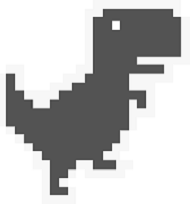
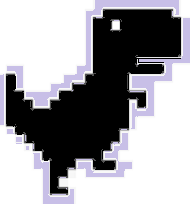
evaluacion

diff --git a/dino_runner/components/game.py b/dino_runner/components/game.py
@@ -1,6 +1,6 @@
 import pygame
 
-from dino_runner.utils.constants import BG, ICON, SCREEN_HEIGHT, SCREEN_WIDTH, TITLE, FPS, FONT_STYLE , RESET , GAMEOVER ,CLOUD, DEFAULT_TYPE
+from dino_runner.utils.constants import BG, ICON, SCREEN_HEIGHT, SCREEN_WIDTH, TITLE, FPS, FONT_STYLE , RESET , GAMEOVER ,CLOUD, DEFAULT_TYPE, ICON_1
 from dino_runner.components.dinosaurio import Dinosaur
 from dino_runner.components.obstacles.obstacle_manager import ObstacleManager
 from dino_runner.components.menu import Menu
@@ -13,10 +13,10 @@ class Game:
     def __init__(self):
         pygame.init()
         pygame.display.set_caption(TITLE)
-        pygame.display.set_icon(ICON)
         pygame.display.set_icon(CLOUD)
         pygame.display.set_icon(RESET)
         pygame.display.set_icon(GAMEOVER)
+        self.icon = ICON_1[0]
         self.screen = pygame.display.set_mode((SCREEN_WIDTH, SCREEN_HEIGHT))
         self.clock = pygame.time.Clock()
         self.playing = False
@@ -33,6 +33,7 @@ class Game:
         self.power_up_manager = PowerUpManager()
         self.stop = 0
         self.colors = 0
+        self.step = 0
         
     def execute(self):
         self.running = True
@@ -112,6 +113,13 @@ class Game:
             self.x_pos_bg = 0
         self.x_pos_bg -= self.game_speed
         
+        
+    def Icon_walk(self):
+        if self.step >= 800:
+            self.step = 0
+        self.icon = ICON_1[0] if self.step < 400 else ICON_1[1]
+        self.step += 1
+        
     #metodo para mostar el menu
     def show_menu(self):
         self.menu.reset_screen_color(self.screen)
@@ -119,13 +127,14 @@ class Game:
         half_screen_width = SCREEN_WIDTH // 2
         
         if self.death_count.count == 0:
-            self.screen.blit(ICON, (half_screen_width - 50, half_screen_height - 140))
-            self.menu.draw(self.screen, 'Press any key to start ...')
+            self.Icon_walk()
+            self.screen.blit(self.icon,(half_screen_width -90, half_screen_height-200))
+            self.menu.draw(self.screen, 'Press any key to start ...', half_screen_width +180)
         else:
             self.screen.blit(GAMEOVER, (half_screen_width -380, half_screen_height - 140,))
             self.screen.blit(RESET, (half_screen_width - 50, half_screen_height - 70,))
             self.update_highest_score()
-            self.menu.draw(self.screen, 'Game over. Press any key to restart', half_screen_width, 350, )
+            self.menu.draw(self.screen, 'Game over. Press any key to restart',half_screen_width -30, half_screen_height +50, )
             self.menu.draw(self.screen, f'Your score: {self.score.count}', half_screen_width, 370, )
             self.menu.draw(self.screen, f'Highest score: {self.highest_score.count}', half_screen_width, 390, )
             self.menu.draw(self.screen, f'Total deaths: {self.death_count.count}', half_screen_width, 410, )    
@@ -165,7 +174,7 @@ class Game:
     def  draw_power_up_time(self):
         if self.player.has_power_up: #el poder debe estar activado
             self.stop += 1
-            if self.stop <= 50: #si le queda tiempo se manda un nuevo mensaje
+            if self.stop <= 80: #si le queda tiempo se manda un nuevo mensaje
                 self.menu.draw(self.screen, f'{self.player.type.capitalize()} enabled for {self.stop} seconds',500,50 )
             else:
                 self.has_power_up = False

diff --git a/dino_runner/components/power_ups/power_up_manager.py b/dino_runner/components/power_ups/power_up_manager.py
@@ -1,29 +1,64 @@
 import pygame
 import random
 from dino_runner.components.power_ups.shield import Shield
+from dino_runner.components.power_ups.heart import Heart
+from dino_runner.components.power_ups.hammer import Hammer
+from dino_runner.components.obstacles.obstacle_manager import ObstacleManager
+
 class PowerUpManager:
+    POWER_SHIELD = 5
+    POWER_HEART = 5
+    POWER_HOMMER = 5
     def __init__(self):
+        self.obstacle = ObstacleManager()
         self.power_ups = []
         self.when_appears =  random.randint(250,300)
         self.duration = random.randint(3,5)
+        self.life = 0
     
-    def generate_power_ups(self):
-        self.when_appears += random.randint(200,300)
+    def generate_power_ups_shield(self):
         power_up = Shield()
+        self.power_ups.append(power_up)
+
+    def generate_power_ups_heart(self):
+        power_up = Heart()
+        self.power_ups.append(power_up)
+
+    def generate_power_ups_hammer(self):
+        power_up = Hammer()
         self.power_ups.append(power_up)
     
     def update (self, game):
-        if len(self.power_ups) == 0 and self.when_appears == game.score.count:
-            self.generate_power_ups()
+        if len(self.power_ups) == 0 and random.randint(0,300) < self.POWER_SHIELD:
+            self.generate_power_ups_shield()
+        elif len(self.power_ups) == 0 and random.randint(0,100) < self.POWER_HEART:
+            self.generate_power_ups_heart()
+        elif len(self.power_ups) == 0 and random.randint(0,200) < self.POWER_HOMMER:
+            self.generate_power_ups_hammer()
         
         for power_up in self.power_ups:
             power_up.update(game.game_speed, self.power_ups)
-            if game.player.dino_rect.colliderect(power_up.rect):
+            if game.player.dino_rect.colliderect(power_up.rect) and power_up.type =="shield":
                 power_up.start_time = pygame.time.get_ticks() #tiene un power activo
                 game.player.type = power_up.type
                 game.player.has_power_up = True
                 game.player.power_up = power_up.start_time + (self.duration * 1000) # hasta cuando va a durar
                 self.power_ups.remove(power_up) #va a desaparecer el obstacle de la pantalla
+                
+            if game.player.dino_rect.colliderect(power_up.rect) and power_up.type == "heart": # cuando lo toca
+                power_up.start_time = pygame.time.get_ticks() #tiene un power activo
+                game.player.type = power_up.type
+                game.player.has_power_up = True
+                game.player.power_up = power_up.start_time + (self.duration * 1000) # hasta cuando va a durar
+                self.power_ups.remove(power_up) #va a desaparecer el obstacle de la pantalla
+                
+            if game.player.dino_rect.colliderect(power_up.rect) and power_up.type == "hammer": # cuando lo toca
+                power_up.start_time = pygame.time.get_ticks() #tiene un power activo
+                game.player.type = power_up.type
+                game.player.has_power_up = True
+                game.player.power_up = power_up.start_time + (self.duration * 1000) # hasta cuando va a durar
+                self.power_ups.remove(power_up) #va a desaparecer el obstacle de la pantalla
+ 
             
     def draw (self, screen):
         for power_up in self.power_ups:

diff --git a/dino_runner/utils/constants.py b/dino_runner/utils/constants.py
@@ -8,8 +8,15 @@ SCREEN_WIDTH = 1100
 FPS = 30
 IMG_DIR = os.path.join(os.path.dirname(__file__), "..", "assets")
 
+
 # Assets Constants
 ICON = pygame.image.load(os.path.join(IMG_DIR, "DinoWallpaper.png"))
+
+ICON_1 = [
+    pygame.image.load(os.path.join(IMG_DIR, "DinoRun1icon.png")),
+    pygame.image.load(os.path.join(IMG_DIR, "DinoRun2icon.png")),
+]
+
 GAMEOVER = pygame.image.load(os.path.join(IMG_DIR,"Other/GameOver.png"))
 RESET = pygame.image.load(os.path.join(IMG_DIR,"Other/Reset.png"))
 DEAD = pygame.image.load(os.path.join(IMG_DIR,"Dino/DinoDead.png"))
@@ -17,6 +24,10 @@ DEAD = pygame.image.load(os.path.join(IMG_DIR,"Dino/DinoDead.png"))
 RUNNING = [
     pygame.image.load(os.path.join(IMG_DIR, "Dino/DinoRun1.png")),
     pygame.image.load(os.path.join(IMG_DIR, "Dino/DinoRun2.png")),
+]
+RUN_HAMMER = [
+    pygame.image.load(os.path.join(IMG_DIR, "Dino/DinoRun1Hammer.png")),
+    pygame.image.load(os.path.join(IMG_DIR, "Dino/DinoRun2Hammer1.png")),
 ]
 
 RUNNING_SHIELD = [
@@ -64,6 +75,7 @@ BIRD = [
     pygame.image.load(os.path.join(IMG_DIR, "Bird/Bird2.png")),
 ]
 
+
 CLOUD = pygame.image.load(os.path.join(IMG_DIR, 'Other/Cloud.png'))
 SHIELD = pygame.image.load(os.path.join(IMG_DIR, 'Other/shield.png'))
 HAMMER = pygame.image.load(os.path.join(IMG_DIR, 'Other/hammer.png'))
@@ -75,3 +87,6 @@ HEART = pygame.image.load(os.path.join(IMG_DIR, 'Other/SmallHeart.png'))
 DEFAULT_TYPE = "default"
 FONT_STYLE = "freesansbold.ttf"
 SHIELD_TYPE = "shield"
+HEART_TYPE = "heart"
+HAMMER_TYPE = "hammer"
+

diff --git a/dino_runner/components/dinosaurio.py b/dino_runner/components/dinosaurio.py
@@ -1,11 +1,11 @@
 import pygame
 from pygame.sprite import Sprite
-from dino_runner.utils.constants import RUNNING, JUMPING, DUCKING , DEAD , RUNNING_SHIELD , JUMPING_SHIELD ,DUCKING_SHIELD , DEFAULT_TYPE, SHIELD_TYPE
+from dino_runner.utils.constants import RUNNING, JUMPING, DUCKING , DEAD , RUNNING_SHIELD , JUMPING_SHIELD ,DUCKING_SHIELD , DEFAULT_TYPE, SHIELD_TYPE , RUN_HAMMER, HAMMER_TYPE,JUMPING_HAMMER, DUCKING_HAMMER,HEART_TYPE
 
 #PARA CORRER CON O SIN PODER 
-RUN_IMG = {DEFAULT_TYPE:RUNNING, SHIELD_TYPE:RUNNING_SHIELD}
-JUMO_IMG ={DEFAULT_TYPE: JUMPING , SHIELD_TYPE: JUMPING_SHIELD}
-DUCK_IMG = {DEFAULT_TYPE: DUCKING , SHIELD_TYPE: DUCKING_SHIELD}
+RUN_IMG = {DEFAULT_TYPE:RUNNING, SHIELD_TYPE:RUNNING_SHIELD , HAMMER_TYPE:RUN_HAMMER , HEART_TYPE:RUNNING}
+JUMO_IMG ={DEFAULT_TYPE: JUMPING , SHIELD_TYPE: JUMPING_SHIELD , HAMMER_TYPE:JUMPING_HAMMER, HEART_TYPE:JUMPING}
+DUCK_IMG = {DEFAULT_TYPE: DUCKING , SHIELD_TYPE: DUCKING_SHIELD, HAMMER_TYPE: DUCKING_HAMMER, HEART_TYPE:DUCKING}
 
 class Dinosaur(Sprite):
   X_POS = 80

diff --git a/dino_runner/components/power_ups/hammer.py b/dino_runner/components/power_ups/hammer.py
@@ -1,0 +1,6 @@
+from dino_runner.components.power_ups.power_up import PowerUp
+from dino_runner.utils.constants import HAMMER, HAMMER_TYPE
+
+class Hammer(PowerUp):
+    def __init__(self):
+        super().__init__(HAMMER, HAMMER_TYPE)

diff --git a/dino_runner/components/power_ups/heart.py b/dino_runner/components/power_ups/heart.py
@@ -1,0 +1,6 @@
+from dino_runner.components.power_ups.power_up import PowerUp
+from dino_runner.utils.constants import HEART, HEART_TYPE 
+
+class Heart(PowerUp):
+    def __init__(self):
+        super().__init__(HEART, HEART_TYPE)
